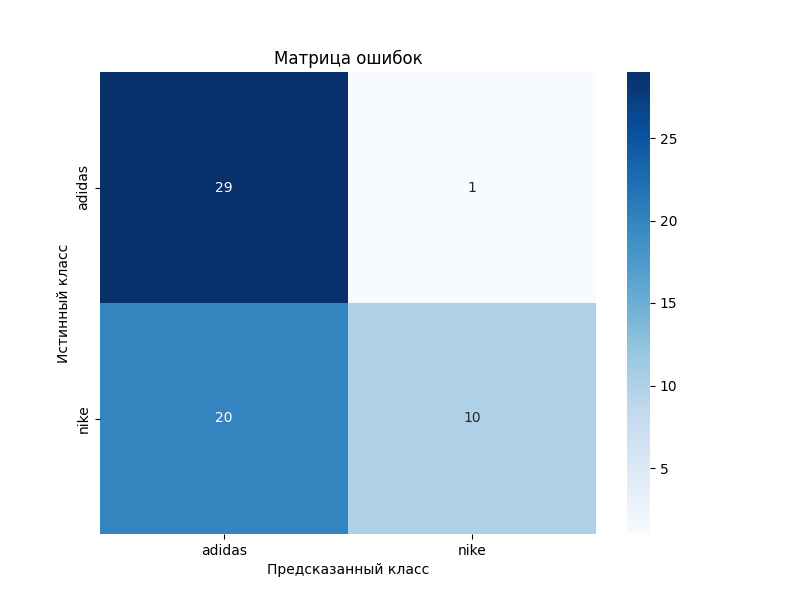
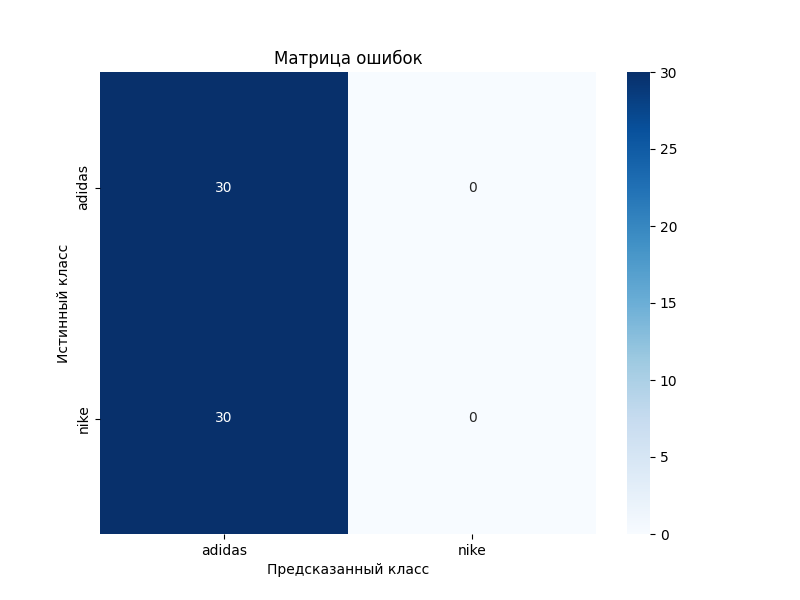
change layers for model

diff --git a/lab4_classification/script.py b/lab4_classification/script.py
@@ -1,0 +1,163 @@
+import warnings
+warnings.filterwarnings("ignore")
+
+import os
+from keras.src.legacy.preprocessing.image import ImageDataGenerator, DirectoryIterator
+from sklearn.metrics import confusion_matrix, classification_report
+from tensorflow.keras import Sequential
+from tensorflow.keras.callbacks import EarlyStopping, ReduceLROnPlateau
+from tensorflow.keras.layers import MaxPool2D, Conv2D, Dropout, Flatten, Dense, MaxPooling2D, BatchNormalization, GlobalAveragePooling2D
+import seaborn as sns
+import matplotlib.pyplot as plt
+import pandas as pd
+
+
+IMG_WIDTH, IMG_HEIGHT = 224, 224
+BATCH_SIZE = 32
+
+
+def create_model() -> Sequential:
+    # model = Sequential([
+    #     Conv2D(filters=8, kernel_size=(5, 5), padding='same', activation='relu',
+    #            input_shape=(IMG_WIDTH, IMG_HEIGHT, 3)),
+    #     MaxPool2D(pool_size=(2, 2)),
+    #     Dropout(0.25),
+    #     Conv2D(filters=16, kernel_size=(5, 5), padding='same', activation='relu'),
+    #     MaxPool2D(pool_size=(2, 2), strides=(2, 2)),
+    #     Dropout(0.25),
+    #     Flatten(),
+    #     Dense(256, activation='relu'),
+    #     Dropout(0.5),
+    #     Dense(1, activation='sigmoid')
+    # ])
+    model = Sequential([
+        Conv2D(32, (3, 3), activation='relu', padding='same', input_shape=(224, 224, 3)),
+        BatchNormalization(),
+        MaxPooling2D(pool_size=(2, 2)),
+        Dropout(0.25),
+
+        Conv2D(64, (3, 3), activation='relu', padding='same'),
+        BatchNormalization(),
+        MaxPooling2D(pool_size=(2, 2)),
+        Dropout(0.25),
+
+        Conv2D(128, (3, 3), activation='relu', padding='same'),
+        BatchNormalization(),
+        MaxPooling2D(pool_size=(2, 2)),
+        Dropout(0.25),
+
+        GlobalAveragePooling2D(),
+
+        Dense(128, activation='relu'),
+        Dropout(0.5),
+        Dense(1, activation='sigmoid')
+    ])
+
+    model.compile(loss='binary_crossentropy', optimizer='adam', metrics=['accuracy'])
+
+    return model
+
+
+def create_data_generator(dataset_path: str) -> (DirectoryIterator, DirectoryIterator, DirectoryIterator):
+    train_dir = os.path.join(dataset_path, 'train')
+    test_dir = os.path.join(dataset_path, 'test')
+    validation_dir = os.path.join(dataset_path, 'validation')
+
+    train_datagen = ImageDataGenerator(
+        rescale=1./255,
+        rotation_range=20,
+        width_shift_range=0.2,
+        height_shift_range=0.2,
+        shear_range=0.2,
+        zoom_range=0.2,
+        horizontal_flip=True
+        # validation_split=0.2
+    )
+    test_datagen = ImageDataGenerator(rescale=1./255)
+    validation_datagen = ImageDataGenerator(rescale=1./255)
+
+    train_generator = train_datagen.flow_from_directory(
+        train_dir,
+        target_size=(IMG_WIDTH, IMG_HEIGHT),
+        batch_size=BATCH_SIZE,
+        class_mode='binary',
+        shuffle=True
+    )
+    validation_generator = validation_datagen.flow_from_directory(
+        validation_dir,
+        target_size=(IMG_WIDTH, IMG_HEIGHT),
+        batch_size=BATCH_SIZE,
+        class_mode='binary',
+        shuffle=False
+    )
+    test_generator = test_datagen.flow_from_directory(
+        test_dir,
+        target_size=(IMG_WIDTH, IMG_HEIGHT),
+        batch_size=BATCH_SIZE,
+        class_mode='binary',
+        shuffle=False
+    )
+
+    return train_generator, validation_generator, test_generator
+
+
+def train_model(model: Sequential, train_generator: DirectoryIterator, validation_generator: DirectoryIterator, epochs: int = 30) -> Sequential:
+    early_stopping = EarlyStopping(
+        monitor='val_loss',
+        patience=10,
+        restore_best_weights=True
+    )
+
+    reduce_lr = ReduceLROnPlateau(
+        monitor='val_loss',
+        factor=0.2,
+        patience=5,
+        min_lr=1e-6
+    )
+
+    model.fit(
+        train_generator,
+        epochs=epochs,
+        callbacks=[early_stopping, reduce_lr],
+        validation_data=validation_generator
+    )
+
+    return model
+
+
+def evaluate_model(model: Sequential, test_generator: DirectoryIterator):
+    loss, accuracy = model.evaluate(test_generator)
+    print('Test loss:', round(loss, 4))
+    print('Test accuracy:', round(accuracy, 4))
+
+    predictions = model.predict(test_generator)
+    y_pred = (predictions > 0.5).astype(int).flatten()
+    y_true = test_generator.classes
+
+    # Создаем отчет о классификации
+    class_names = list(test_generator.class_indices.keys())
+    report = classification_report(y_true, y_pred, target_names=class_names, output_dict=True)
+    report_df = pd.DataFrame(report).transpose()
+    print("\nClassification Report:")
+    print(report_df)
+
+    # Матрица ошибок
+    cm = confusion_matrix(y_true, y_pred)
+    plt.figure(figsize=(8, 6))
+    sns.heatmap(cm, annot=True, fmt='d', cmap='Blues', xticklabels=class_names, yticklabels=class_names)
+    plt.xlabel('Предсказанный класс')
+    plt.ylabel('Истинный класс')
+    plt.title('Матрица ошибок')
+    plt.savefig('confusion_matrix.png')
+    plt.close()
+
+    return report_df
+
+
+train, validation, test = create_data_generator('dataset')
+model = create_model()
+model.summary()
+# trained_model = train_model(model, train, validation, epochs=50)
+# evaluate_model(trained_model, test)
+
+# tf.keras.utils.plot_model(model, show_shapes=True)
